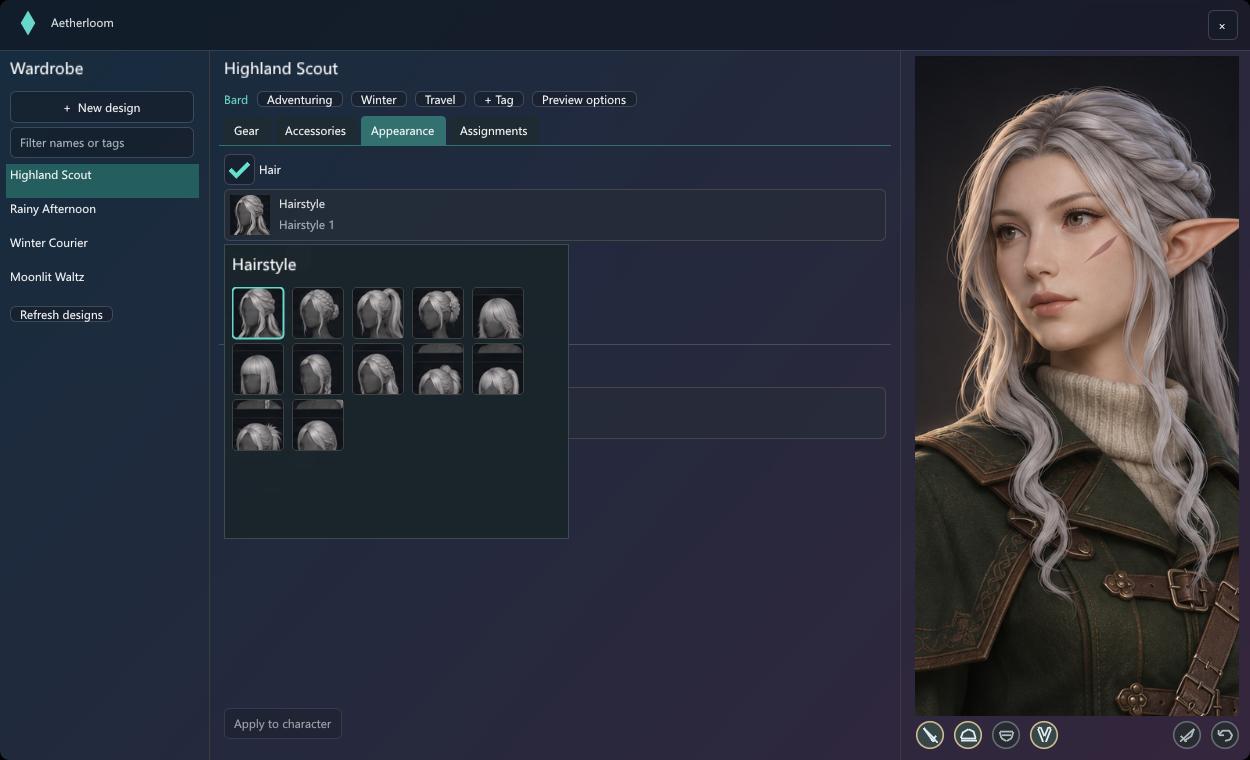
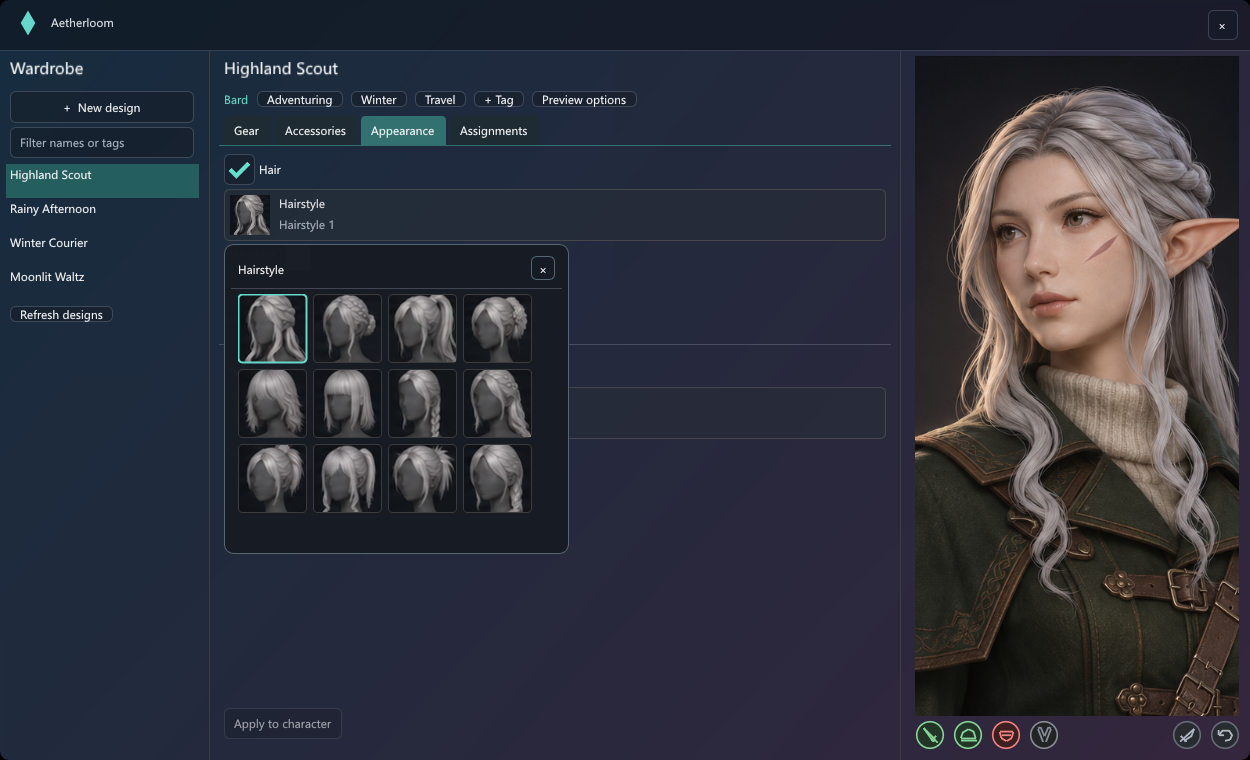
Give wardrobe pickers consistent frames and render real game palettes

Changed region(s): [[0.156, 0.3329, 0.468, 0.7263], [0.7176, 0.9382, 0.8424, 0.9987], [0.1872, 0.2421, 0.2184, 0.3026]]

diff --git a/Library/WorkspaceControls.cs b/Library/WorkspaceControls.cs
@@ -44,28 +44,46 @@ public static class WorkspaceControls
         var size = new Vector2(Math.Max(1,width), 52*s);
         bool clicked = ImGui.InvisibleButton(id,size);
         var dl = ImGui.GetWindowDrawList();
-        dl.AddRectFilled(p,p+size, selected ? 0x903d5540u : ImGui.IsItemHovered() ? 0xba514941u : 0x80352d27u,5*s);
+        dl.AddRectFilled(p,p+size, selected ? 0xb4474530u : ImGui.IsItemHovered() ? 0xba514941u : 0x80352d27u,5*s);
         dl.AddRect(p,p+size,selected ? Accent : Border,5*s);
         var a=p+new Vector2(6*s); var b=a+new Vector2(40*s);
         if (icon.HasValue) icon.Value.Paint(a,b);
         if (missing) dl.AddRect(a,b,Missing,4*s);
         var x=icon.HasValue || missing ? b.X+9*s : a.X+4*s;
-        dl.PushClipRect(new Vector2(x,p.Y),p+size-new Vector2(3*s,0),true);
+        dl.PushClipRect(new Vector2(x,p.Y),p+size-new Vector2((selected?25:3)*s,0),true);
         dl.AddText(new Vector2(x,p.Y+(detail.Length==0?16:6)*s),0xffefefef,label);
         if (detail.Length>0) dl.AddText(new Vector2(x,p.Y+27*s),missing?Missing:0xffbfb5ac,detail);
         dl.PopClipRect();
+        if(selected)
+        {
+            var check=p+new Vector2(size.X-18*s,size.Y*.52f);
+            dl.AddLine(check-new Vector2(5,1)*s,check+new Vector2(-1,3)*s,Accent,2*s);
+            dl.AddLine(check+new Vector2(-1,3)*s,check+new Vector2(6,-5)*s,Accent,2*s);
+        }
         return clicked;
     }
 
-    public static bool Swatch(string id,uint rgba,string label,bool selected=false,float side=26,bool round=false)
+    public static bool Swatch(string id,uint rgba,string label,bool selected=false,float side=26,bool round=false,bool spectrum=false,float width=0)
     {
-        var p=ImGui.GetCursorScreenPos(); var size=new Vector2(side*Scale);
+        var p=ImGui.GetCursorScreenPos(); var size=new Vector2(width>0?width:side,side)*Scale;
         bool clicked=ImGui.InvisibleButton(id,size);
         var dl=ImGui.GetWindowDrawList();
         float radius=round?size.X/2:4*Scale;
         dl.AddRectFilled(p,p+size,rgba,radius);
-        dl.AddRect(p,p+size,selected?Accent:Border,radius,ImDrawFlags.None,selected?3:1);
-        if(selected && side>=22)
+        if(spectrum)
+        {
+            var center=p+size/2;
+            for(int i=0;i<48;i++)
+            {
+                float a=i*MathF.Tau/48,b=(i+1)*MathF.Tau/48;
+                float r=0,g=0,blue=0; ImGui.ColorConvertHSVtoRGB(i/48f,.8f,.95f,ref r,ref g,ref blue);
+                dl.AddTriangleFilled(center,center+new Vector2(MathF.Cos(a),MathF.Sin(a))*radius,
+                    center+new Vector2(MathF.Cos(b),MathF.Sin(b))*radius,ImGui.GetColorU32(new Vector4(r,g,blue,1)));
+            }
+        }
+        dl.AddRect(p,p+size,selected?Accent:ImGui.IsItemHovered()?0xffede8e2u:Border,radius,ImDrawFlags.None,selected?2:1);
+        if(round && selected)dl.AddCircle(p+size/2,radius-3*Scale,0xc025211du,32,2*Scale);
+        if(selected && !round)
         {
             var ink=((rgba&255)*299+((rgba>>8)&255)*587+((rgba>>16)&255)*114)>145000?0xff202022u:0xfffafafau;
             dl.AddLine(p+size*.28f,p+new Vector2(size.X*.44f,size.Y*.62f),ink,2*Scale);
@@ -75,17 +93,17 @@ public static class WorkspaceControls
         return clicked;
     }
 
-    public static bool RoundAction(string label,bool active,Action<ImDrawListPtr,Vector2,float,uint> glyph)
+    public static bool RoundAction(string label,bool active,Action<ImDrawListPtr,Vector2,float,uint> glyph,uint? tint=null,string? tooltip=null)
     {
         var side=30*Scale;
         var p=ImGui.GetCursorScreenPos();
         bool clicked=ImGui.InvisibleButton(label,new Vector2(side));
         var center=p+new Vector2(side/2);
         var dl=ImGui.GetWindowDrawList();
-        dl.AddCircleFilled(center,side*.46f,active?0xff484737u:0xff302c28u);
-        dl.AddCircle(center,side*.46f,ImGui.IsItemHovered()?0xffe7dfbeu:active?0xff90bad2u:0xff776c66u,32,1.6f*Scale);
-        glyph(dl,center,side,active?0xfff4eee3u:0xffc2b9afu);
-        if(ImGui.IsItemHovered())ImGui.SetTooltip(label);
+        dl.AddCircleFilled(center,side*.46f,tint.HasValue?(0xff000000u|((tint.Value>>2)&0x003f3f3fu)):active?0xff484737u:0xff302c28u);
+        dl.AddCircle(center,side*.46f,tint??(ImGui.IsItemHovered()?0xffe7dfbeu:active?0xff90bad2u:0xff776c66u),32,1.6f*Scale);
+        glyph(dl,center,side,tint??(active?0xfff4eee3u:0xffc2b9afu));
+        if(ImGui.IsItemHovered())ImGui.SetTooltip(tooltip??label);
         return clicked;
     }
 
@@ -102,7 +120,32 @@ public static class WorkspaceControls
         if(top+preferredHeight*Scale>bottom) top=Math.Max(vp.WorkPos.Y,bottom-preferredHeight*Scale);
         ImGui.SetNextWindowPos(new(left,top));
         ImGui.SetNextWindowSizeConstraints(new(width,0),new(width,vp.WorkSize.Y));
-        return ImGui.BeginPopup(id);
+        ImGui.PushStyleVar(ImGuiStyleVar.WindowPadding,new Vector2(14,12)*Scale);
+        ImGui.PushStyleVar(ImGuiStyleVar.PopupRounding,9*Scale);
+        ImGui.PushStyleVar(ImGuiStyleVar.PopupBorderSize,1*Scale);
+        ImGui.PushStyleVar(ImGuiStyleVar.ItemSpacing,new Vector2(6,6)*Scale);
+        ImGui.PushStyleVar(ImGuiStyleVar.FramePadding,new Vector2(8,5)*Scale);
+        ImGui.PushStyleColor(ImGuiCol.PopupBg,new Vector4(.09f,.11f,.14f,.99f));
+        ImGui.PushStyleColor(ImGuiCol.Border,new Vector4(.40f,.47f,.52f,.8f));
+        if(ImGui.BeginPopup(id))return true;
+        PopPickerStyle();
+        return false;
+    }
+    private static void PopPickerStyle()
+    {
+        ImGui.PopStyleColor(2);ImGui.PopStyleVar(5);
+    }
+    public static void EndPicker()
+    {
+        ImGui.EndPopup();PopPickerStyle();
+    }
+    public static void PickerHeading(string title)
+    {
+        var right=ImGui.GetCursorPosX()+ImGui.GetContentRegionAvail().X;
+        ImGui.AlignTextToFramePadding();ImGui.TextUnformatted(title);
+        ImGui.SameLine();ImGui.SetCursorPosX(right-24*Scale);
+        if(ImGui.Button("\u00d7##close",new Vector2(24*Scale)))ImGui.CloseCurrentPopup();
+        ImGui.Separator();
     }
 
     public static bool Thumbnail(string id,Picture? image,string label,bool selected,float side)

diff --git a/WardrobePreview/WardrobeFixture.cs b/WardrobePreview/WardrobeFixture.cs
@@ -17,6 +17,7 @@ internal sealed class WardrobeFixture:IWardrobe
     public string Message=>"";
     public IEnumerable<(Guid,string,string[])> Designs=>designs;
     public IEnumerable<WardrobeDye> Dyes=>palette;
+    private readonly byte[] appearancePalette=new byte[4096];
     public WardrobeFixture(Func<string,ImTextureID> load)
     {
         var gear=load("gear");var look=load("appearance");var acc=load("accessories");
@@ -28,25 +29,29 @@ internal sealed class WardrobeFixture:IWardrobe
         for(int i=0;i<keys.Length;i++){
             uint id=(uint)(i+1);
             art[id]=i<6?Cut(gear,470,new[]{277,363,448,535,621,700}[i],81,61):Cut(acc,542,275+(i-6)*111,103,77);
-            rows.Add(new(keys[i],labels[i],new(id,names[i],id,i>=9?0:2,i==0?"Bard":""),5,2,true));
+            rows.Add(new(keys[i],labels[i],new(id,names[i],id,i>=9?0:2,i==0?"Bard":""),52,2,true));
         }
         var styles=load("appearance-pickers");
         var items=load("gear-picker");
         for(int i=0;i<12;i++){
-            float y=271+80*(i/4);
+            float y=273+94*(i/4);
             Picture StyleTile(float x)=>new(styles,new(x/2172,y/724),new((x+66)/2172,(y+66)/724));
             art[(uint)(60+i)]=StyleTile(445+79*(i%4));
-            art[(uint)(80+i)]=StyleTile(1531+81*(i%4));
+            art[(uint)(80+i)]=StyleTile(1531+79*(i%4));
         }
         for(int i=0;i<3;i++)art[(uint)(120+i)]=Cut(items,587,528+i*83,60,60);
         foreach(var name in new[]{"Highland Scout","Rainy Afternoon","Winter Courier","Moonlit Waltz"})designs.Add((Guid.NewGuid(),name,["Adventuring","Winter","Travel"]));
         Selected=designs[0].Id;
-        uint[] colors=[0xffdededb,0xff493324,0xff6b89b2,0xff79dacb,0xff3e5943,0xff856344,0xff9d6289,0xffa4b4ba];
-        for(int i=0;i<8;i++)for(int j=0;j<21;j++){
-            byte id=(byte)(i+1+8*j);var color=colors[i];var shade=(uint)Math.Clamp(70+j*10,0,255);
-            uint Adjust(int shift)=>Math.Min(255,((color>>shift)&255)*shade/140);
-            palette.Add(new(id,id==5?"Hunter Green Dye":$"{new[]{"Neutral","Red","Brown","Yellow","Green","Blue","Purple","Special"}[i]} {j+1}",0xff000000|(Adjust(16)<<16)|(Adjust(8)<<8)|Adjust(0),i));
+        using var samples=typeof(WardrobeFixture).Assembly.GetManifestResourceStream("appearance-palette.bin")!;
+        samples.ReadExactly(appearancePalette);
+        using var stream=typeof(WardrobeFixture).Assembly.GetManifestResourceStream("stains.tsv")!;
+        using var reader=new StreamReader(stream);
+        while(reader.ReadLine() is {} line)
+        {
+            var parts=line.Split('\t');
+            palette.Add(new(byte.Parse(parts[0]),parts[1],uint.Parse(parts[2]),WardrobeDye.FamilyFromShade(int.Parse(parts[3]))));
         }
+
     }
     public string Availability(uint id)=>id is 4 or 11 or 25?"Missing":"Glamour Dresser";
     public Picture? Icon(uint id)=>art.TryGetValue(id,out var img)?img:null;
@@ -65,7 +70,11 @@ internal sealed class WardrobeFixture:IWardrobe
     public void SetApply(string key,bool apply)=>Change(key,s=>s with{Apply=apply});
     public void MainHand(string? remove){if(remove!=null)rows.RemoveAll(x=>x.Key==remove);else rows.Insert(1,new("MainHand/"+Guid.NewGuid(),"Main hand",new(0,"Empty",0,0),0,0,false));}
     public IEnumerable<WardrobeStyle> Styles(string key)=>Enumerable.Range(0,12).Select(i=>new WardrobeStyle((byte)i,$"{(key=="Hairstyle"?"Hairstyle":"Pattern")} {i+1}",(uint)((key=="Hairstyle"?60:80)+i)));
-    public uint AppearanceColor(string key,byte value)=>key=="FacePaintColor"?0xff615161u:0xffc1b9bfu;
+    public uint AppearanceColor(string key,byte value)
+    {
+        var index=key switch{"HairColor"=>value,"HighlightsColor"=>256+value,_=>value<128?512+value:768+value-128};
+        return BitConverter.ToUInt32(appearancePalette,index*4)|0xff000000;
+    }
     public byte Style(string key)=>chosen.GetValueOrDefault(key);
     public void SetStyle(string key,byte id)=>chosen[key]=id;
     private readonly HashSet<string> enabled=["Hair","Face paint"];
@@ -78,9 +87,9 @@ internal sealed class WardrobeFixture:IWardrobe
     public void Assign(string type,uint id,bool enable){if(enable)assigned[type].Add(id);else assigned[type].Remove(id);}
     public ISet<byte> FavoriteDyes{get;}=new HashSet<byte>{5,11,14,21,32};
     public void ToggleFavorite(byte id){if(!FavoriteDyes.Remove(id))FavoriteDyes.Add(id);}
-    private readonly HashSet<string> display=["Weapon","Hat","VieraEars"];
-    public bool DisplayOption(string key)=>display.Contains(key);
-    public void ToggleDisplay(string key){if(!display.Remove(key))display.Add(key);}
+    private readonly Dictionary<string,bool?> display=new(){["Weapon"]=true,["Hat"]=true,["Visor"]=false};
+    public bool? DisplayOption(string key)=>display.GetValueOrDefault(key);
+    public void ToggleDisplay(string key)=>display[key]=key=="Draw"?DisplayOption(key)!=true:DisplayOption(key) switch{null=>true,true=>false,false=>null};
     public void ResetCamera(){}
     public void PreviewOptions(){}
     public void DrawPreview(){

diff --git a/WardrobePreview/Program.cs b/WardrobePreview/Program.cs
@@ -30,6 +30,7 @@ internal sealed class RenderForm(string? scene,string? output):Form
         io.Fonts.AddFontFromFileTTF(Path.Combine(Environment.GetFolderPath(Environment.SpecialFolder.Fonts),"segoeui.ttf"),16);
         surface=new GlSurface(Handle);
         var fixture=new WardrobeFixture(LoadReference);
+        if(scene=="dye-neutral"){fixture.SetDye("Body",0,0);fixture.FavoriteDyes.Clear();}
         layout=new(fixture);fixture.Layout=layout;
         timer.Tick+=(_,_)=>Invalidate();timer.Start();
     }
@@ -47,8 +48,8 @@ internal sealed class RenderForm(string? scene,string? output):Form
         var io=ImGui.GetIO();io.DisplaySize=new(ClientSize.Width,ClientSize.Height);io.DeltaTime=.025f;
         ImGui.NewFrame();ImGui.SetNextWindowPos(Vector2.Zero);ImGui.SetNextWindowSize(io.DisplaySize);
         WindowShell.PushHostStyle();ImGui.Begin("Aetherloom",WindowShell.HostFlags|ImGuiWindowFlags.NoResize|ImGuiWindowFlags.NoMove);WindowShell.PopHostStyle();
-        if(frame is 1 or 2)layout.Show(scene switch{"hair" or "paint" or "appearance"=>"Appearance","accessories"=>"Accessories","assignments"=>"Assignments",_=>"Gear"},
-            scene switch{"dye"=>"Body-dye0","items"=>"Body","hair"=>"Hairstyle","paint"=>"FacePaint",_=>null});
+        if(frame is 1 or 2)layout.Show(scene switch{"hair" or "paint" or "colors" or "appearance"=>"Appearance","accessories"=>"Accessories","assignments"=>"Assignments",_=>"Gear"},
+            scene switch{"dye" or "dye-neutral"=>"Body-dye0","colors"=>"HairColor","items"=>"Body","hair"=>"Hairstyle","paint"=>"FacePaint",_=>null});
         layout.Draw(()=>BeginInvoke(Close));ImGui.End();ImGui.Render();surface.Paint(ClientSize.Width,ClientSize.Height);
         if(++frame==6 && output!=null){surface.Capture(output,ClientSize.Width,ClientSize.Height);BeginInvoke(Close);}
     }

diff --git a/WardrobePreview/README.md b/WardrobePreview/README.md
@@ -8,3 +8,5 @@ Scenes are gear, accessories, appearance, items, dye, hair, paint, and assignmen
 
 The renders folder contains captures at 1250 × 760. Original design references live under docs/wardrobe in Aetherloom.
 Set WARDROBE_PREVIEW_WIDTH to change the capture width. The gear-wide capture uses 1500 pixels for comparison with the default 1250 pixels.
+
+The dye and dye-neutral scenes use a snapshot of the game stain sheet. The second opens an undyed channel with no favourites. The colors scene uses a sample character hair palette. The live plugin reads these colours from the installed game.
